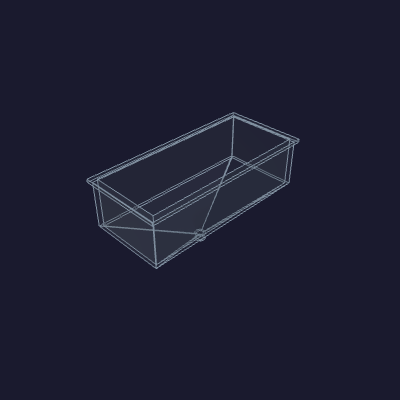
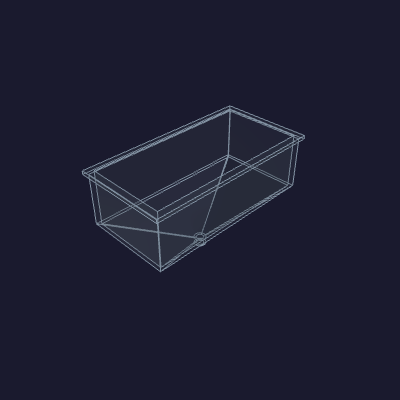
lite: pull the pumps +20 mm in Y, shrinking the box front (345 -> 325)
Translate the pump assemblies +Y as far as they go (heads just meet the
bib/nozzle stack at the back of the void). Decoupled source-select from the pump
back face first (it was front-anchored to the pumps, so moving them would have
dragged the whole back chain and grown the box) — source now placed at a fixed
front, everything behind it unchanged.

The pumps were the frontmost content, so pulling them back draws the box's front
edge in: box 215.5 x 345 -> 215.5 x 324.9 x 305 (Y -20). Funnel slot shortens
with it (75 x 151, 604 mL, still well over 440). content clash ~0 (the bib/noz
valve graze), funnel clears content + shell, front n back = 0, both halves fit
the bed.

Changed region(s): [[0.21, 0.27, 0.78, 0.69]]

diff --git a/pie-in-the-sky/lite/enclosure-assembly/_contents.py b/pie-in-the-sky/lite/enclosure-assembly/_contents.py
@@ -74,11 +74,12 @@ RES_X_INSET = 6.0
 # across the seam. Floor content against a side wall would foul the bottom pods,
 # so it is lifted clear of them — the Kitchen `FOAM_LIFT` idiom.
 FLOOR_LIFT = 14.0
-# Front-zone Y stations. The two pump assemblies sit in the right-front void with
-# their motor cylinders pointing at the -X wall; the long trays stand behind them.
-PUMP_FRONT_Y = 5.0         # pump front face
+# Front-zone Y stations. The pumps sit in the right-front void (independent of the
+# trays now); the long trays stand at the back with their backs on the split.
+PUMP_FRONT_Y = 25.0        # pump front face — pulled back so the heads just meet the
+                           # bib/nozzle stack, drawing the box front edge in with them
 PUMP_HEAD_X = 200.0        # the pump heads' +X face (the void's bottom-right corner)
-PUMP_TO_TRAY_GAP = 2.5     # gap from the pump back to the vertical trays (Y)
+SOURCE_FRONT_Y = 79.0      # source-select front face (decoupled from the pumps)
 STACK_GAP = 2.0            # vertical gap between stacked parts (Z)
 TRAY_GAP_X = 3.0           # gap between side-by-side vertical trays (X)
 # The short trays (bib, nozzle) STACK into one footprint at the back-right (backs
@@ -148,12 +149,10 @@ def build():
     placed["pump-upper"] = (pump_up, PUMP_COLORS["pump-upper"])
 
     # --- Back band: source-select + bag-circuit stood vertical (rotate +90 about
-    # Y so their long axis runs up Z), side by side behind the pump stack, their
-    # back faces on the split line. source-select is the deeper of the two and
-    # sets the front-zone depth.
-    tray_front = pb.ymax + PUMP_TO_TRAY_GAP
+    # Y so their long axis runs up Z), side by side at the back-left with their
+    # back faces on the split line (placed independently of the pumps).
     src = _place(_rot(_load(TRAY_STEPS["source-select"]), (0, 1, 0), 90.0),
-                 xmin=X_INSET, ymin=tray_front, zmin=FLOOR_LIFT)
+                 xmin=X_INSET, ymin=SOURCE_FRONT_Y, zmin=FLOOR_LIFT)
     placed["source-select"] = (src, COLORS["source-select"])
     sb = src.BoundingBox()
     split_front = sb.ymax            # the front zone's back face (the split rides here)

diff --git a/pie-in-the-sky/lite/enclosure/README.md b/pie-in-the-sky/lite/enclosure/README.md
@@ -93,7 +93,7 @@ from the same rectangle (`_hopper_hole`), so the two always match.
 
 ## Dimensions
 
-Outer envelope [215.5 mm](LITE_OUTER_X) × [345.1 mm](LITE_OUTER_Y) × [305 mm](LITE_OUTER_Z)
+Outer envelope [215.5 mm](LITE_OUTER_X) × [324.9 mm](LITE_OUTER_Y) × [305 mm](LITE_OUTER_Z)
 (X × Y × Z) — narrower and shorter than the Kitchen edition (289 × 342 × 310) in
 X and Z, but a touch deeper in Y: with no side column beside the reservoir, the
 trays and pumps pack into a deep front zone instead, trading width for depth.

diff --git a/pie-in-the-sky/lite/printed-parts/funnel/README.md b/pie-in-the-sky/lite/printed-parts/funnel/README.md
@@ -3,7 +3,7 @@
 The removable hopper you pour SodaStream concentrate into. It drains to **V-B**
 on the [source-select tray](/hardware/printed-parts/valve-manifold/source-select-tray/)
 — fluid topology [segment 4](/hardware/topology/fluid-topology.md),
-"Hopper funnel bottom → V-B-I". A **pour buffer** holding ≈ [687 mL](HOPPER_CAP)
+"Hopper funnel bottom → V-B-I". A **pour buffer** holding ≈ [604 mL](HOPPER_CAP)
 to the brim — generous enough to take a full pour at once while the pump draws it
 on to a bag.
 
